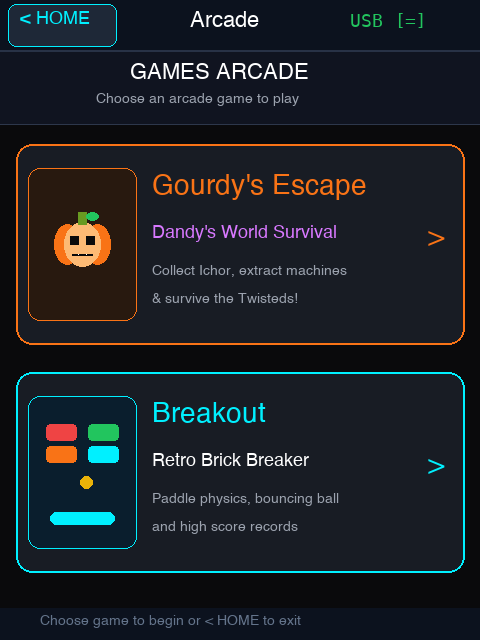
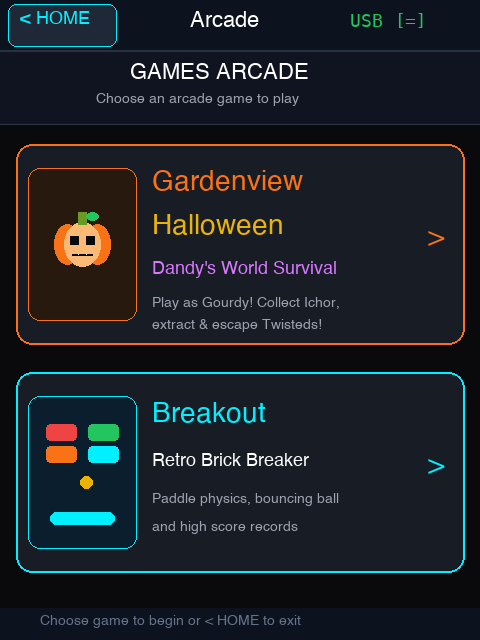
Rename game to Gardenview Halloween across Arcade menu, UI, screenshots, and docs

Changed region(s): [[0.3125, 0.4062, 0.7188, 0.5312], [0.3125, 0.25, 0.7812, 0.3125], [0.3125, 0.3438, 0.7188, 0.375]]

diff --git a/scripts/generate_screenshots.py b/scripts/generate_screenshots.py
@@ -86,7 +86,7 @@ def render_launcher():
     
     apps = [
         ("#1", "Draw Pad", "Solid brush & anti-aliased UI", C_GREEN),
-        ("#2", "Arcade", "Gourdy's Escape & Breakout", C_ORANGE),
+        ("#2", "Arcade", "Gardenview Halloween & Breakout", C_ORANGE),
         ("#3", "SysMonitor", "System health, sensors & Wi-Fi", C_BLUE)
     ]
     
@@ -244,7 +244,7 @@ def render_arcade_menu():
     draw.text((S(65), S(31)), "GAMES ARCADE", fill=C_WHITE, font=font_bold)
     draw.text((S(48), S(46)), "Choose an arcade game to play", fill=C_GRAY_TEXT, font=font_xs)
     
-    # Card 1: Gourdy's Escape (Dandy's World)
+    # Card 1: Gardenview Halloween (Dandy's World)
     card1_y = S(72)
     card_h = S(100)
     draw.rounded_rectangle([S(8), card1_y, S(232), card1_y + card_h], radius=S(8), fill=C_CARD_BG, outline=C_ORANGE, width=SCALE)
@@ -270,10 +270,11 @@ def render_arcade_menu():
     draw.point((px + S(2), py + S(5)), fill=C_WHITE)
     
     # Text
-    draw.text((S(76), card1_y + S(14)), "Gourdy's Escape", fill=C_ORANGE, font=font_large)
-    draw.text((S(76), card1_y + S(40)), "Dandy's World Survival", fill=(216, 120, 255), font=font_sm)
-    draw.text((S(76), card1_y + S(60)), "Collect Ichor, extract machines", fill=C_GRAY_TEXT, font=font_xs)
-    draw.text((S(76), card1_y + S(74)), "& survive the Twisteds!", fill=C_GRAY_TEXT, font=font_xs)
+    draw.text((S(76), card1_y + S(12)), "Gardenview", fill=C_ORANGE, font=font_large)
+    draw.text((S(76), card1_y + S(34)), "Halloween", fill=C_YELLOW, font=font_large)
+    draw.text((S(76), card1_y + S(58)), "Dandy's World Survival", fill=(216, 120, 255), font=font_sm)
+    draw.text((S(76), card1_y + S(76)), "Play as Gourdy! Collect Ichor,", fill=C_GRAY_TEXT, font=font_xs)
+    draw.text((S(76), card1_y + S(87)), "extract & escape Twisteds!", fill=C_GRAY_TEXT, font=font_xs)
     draw.text((S(214), card1_y + S(40)), ">", fill=C_ORANGE, font=font_large)
     
     # Card 2: Breakout
@@ -308,13 +309,13 @@ def render_arcade_menu():
     return img
 
 # ==============================================================================
-# 5. GOURDY'S ESCAPE (DANDY'S WORLD SURVIVAL)
+# 5. GARDENVIEW HALLOWEEN (DANDY'S WORLD SURVIVAL)
 # ==============================================================================
 def render_gourdy():
     # Arena background: Gardenview slate floor (8, 16, 22)
     img = Image.new("RGB", (W, H), (8, 16, 22))
     draw = ImageDraw.Draw(img)
-    draw_status_bar(draw, "Gourdy", is_home=False)
+    draw_status_bar(draw, "Gardenview", is_home=False)
     
     # Header bar
     draw.rectangle([0, S(26), W, S(50)], fill=(16, 20, 34))
@@ -670,7 +671,7 @@ if __name__ == "__main__":
         "1. App Launcher",
         "2. Drawing Pad (Solid)",
         "3. Games Arcade (Hub)",
-        "4. Gourdy's Escape (Dandy's)",
+        "4. Gardenview Halloween",
         "5. Breakout Arcade",
         "6. System Health & Sensors"
     ]

diff --git a/src/AppArcade.h b/src/AppArcade.h
@@ -33,7 +33,7 @@ private:
         tft.setTextColor(0x94B2, 0x1082);
         tft.drawString("Choose an arcade game to play", 120, 50, 1);
 
-        // Card 1: Gourdy's Escape (Dandy's World)
+        // Card 1: Gardenview Halloween (Dandy's World)
         int card1Y = 72;
         int cardH = 100;
         UI_AA::fillRoundRect(tft, 8, card1Y, 224, cardH, 8, 0x18C3, TFT_BLACK);
@@ -59,14 +59,17 @@ private:
         // Titles & Description
         tft.setTextDatum(TL_DATUM);
         tft.setTextColor(TFT_ORANGE, 0x18C3);
-        tft.drawString("Gourdy's Escape", 74, card1Y + 14, 4);
+        tft.drawString("Gardenview", 74, card1Y + 12, 4);
+
+        tft.setTextColor(TFT_YELLOW, 0x18C3);
+        tft.drawString("Halloween", 74, card1Y + 34, 4);
 
         tft.setTextColor(0xD81F, 0x18C3);
-        tft.drawString("Dandy's World Survival", 74, card1Y + 40, 2);
+        tft.drawString("Dandy's World Survival", 74, card1Y + 58, 2);
 
         tft.setTextColor(0xAD75, 0x18C3);
-        tft.drawString("Collect Ichor, extract machines", 74, card1Y + 60, 1);
-        tft.drawString("& survive the Twisteds!", 74, card1Y + 74, 1);
+        tft.drawString("Play as Gourdy! Collect Ichor,", 74, card1Y + 76, 1);
+        tft.drawString("extract & escape Twisteds!", 74, card1Y + 87, 1);
 
         // Card 2: Breakout Arcade
         int card2Y = 186;

diff --git a/src/AppGourdy.h b/src/AppGourdy.h
@@ -414,14 +414,16 @@ public:
         // Title Cards
         tft.setTextColor(TFT_ORANGE, TFT_BLACK);
         tft.setTextDatum(MC_DATUM);
-        tft.drawString("GOURDY'S ESCAPE", 120, 145, 4);
+        tft.drawString("GARDENVIEW", 120, 138, 4);
+        tft.setTextColor(TFT_YELLOW, TFT_BLACK);
+        tft.drawString("HALLOWEEN", 120, 158, 4);
 
         tft.setTextColor(0xD81F, TFT_BLACK);
-        tft.drawString("Collect Ichor & Dodge Twisteds!", 120, 172, 2);
+        tft.drawString("Collect Ichor & Dodge Twisteds!", 120, 180, 2);
 
         tft.setTextColor(0x94B2, TFT_BLACK);
-        tft.drawString("Touch to steer Gourdy Holloway", 120, 195, 2);
-        tft.drawString("Extract the machine to open Elevator", 120, 212, 1);
+        tft.drawString("Touch to steer Gourdy Holloway", 120, 200, 2);
+        tft.drawString("Extract the machine to open Elevator", 120, 216, 1);
 
         char hbuf[32];
         snprintf(hbuf, sizeof(hbuf), "High Score: %u", (unsigned)highScore);

diff --git a/README.md b/README.md
@@ -2,7 +2,7 @@
 
 <p align="center">
   <b>A responsive multi-application touch operating system for the LilyGO T-HMI ESP32-S3</b><br>
-  Featuring Drawing Pad with IbisPaint HSV Color Picker, Games Arcade (Gourdy's Escape & Breakout), System Monitor, and Sub-Pixel Anti-Aliased UI.
+  Featuring Drawing Pad with IbisPaint HSV Color Picker, Games Arcade (Gardenview Halloween & Breakout), System Monitor, and Sub-Pixel Anti-Aliased UI.
 </p>
 
 <p align="center">
@@ -25,7 +25,7 @@
 
 ### 2. 🕹 Games Arcade (`AppArcade`)
 A retro touch arcade launcher featuring two complete games with sub-navigation and smooth anti-aliased cards:
-- **🎃 Gourdy's Escape (`AppGourdy`):**
+- **🎃 Gardenview Halloween (`AppGourdy`):**
   - **Dandy's World Survival:** Play as Gourdy Holloway, the anthropomorphic pumpkin extractor from *Dandy's World*. Features custom multi-lobe pumpkin rendering, moving white pupils that track threats, green stem/leaf, and fanged grin.
   - **Ichor Extraction & Elevators:** Collect glowing purple Ichor drops scattered across Gardenview rooms, activate the central computer extraction terminal (`0% → 100%`), and unlock the elevator door to advance floors.
   - **Twisted Monsters (Aggro AI):** Inky shadow enemies with dripping tendrils and piercing red eyes patrol the arena. Twisteds detect Gourdy and enter high-speed chase mode with alert markers (`!`). Kite them around stone pillars!
@@ -60,7 +60,7 @@ A retro touch arcade launcher featuring two complete games with sub-navigation a
 | <img src="./image/screen_launcher.png" width="230"/> | <img src="./image/screen_drawpad.png" width="230"/> | <img src="./image/screen_colorpicker.png" width="230"/> |
 | *Card launcher with theme badges* | *Solid brush with persistent PSRAM canvas* | *HSV hue slider & Sat/Val square* |
 
-| 4. Games Arcade Menu | 5. Gourdy's Escape (Dandy's World) | 6. Breakout Arcade Game |
+| 4. Games Arcade Menu | 5. Gardenview Halloween (Dandy's World) | 6. Breakout Arcade Game |
 |:---:|:---:|:---:|
 | <img src="./image/screen_arcade.png" width="230"/> | <img src="./image/screen_gourdy.png" width="230"/> | <img src="./image/screen_breakout.png" width="230"/> |
 | *Arcade subgame selector hub* | *Ichor collection, machine extraction & Twisteds* | *60 FPS touch paddle & brick physics* |
